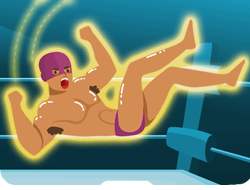
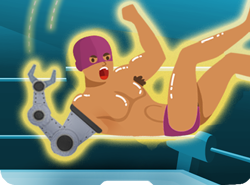
new signature move: Burning Hammer

diff --git a/src/main/java/thewrestler/signaturemoves/cards/attack/BurningHammer.java b/src/main/java/thewrestler/signaturemoves/cards/attack/BurningHammer.java
@@ -3,6 +3,8 @@ package thewrestler.signaturemoves.cards.attack;
 import com.badlogic.gdx.graphics.Color;
 import com.megacrit.cardcrawl.actions.AbstractGameAction;
 import com.megacrit.cardcrawl.actions.animations.VFXAction;
+import com.megacrit.cardcrawl.actions.common.ApplyPowerAction;
+import com.megacrit.cardcrawl.actions.common.DamageAction;
 import com.megacrit.cardcrawl.actions.common.GainBlockAction;
 import com.megacrit.cardcrawl.actions.common.RemoveAllBlockAction;
 import com.megacrit.cardcrawl.actions.utility.WaitAction;
@@ -14,12 +16,16 @@ import com.megacrit.cardcrawl.core.Settings;
 import com.megacrit.cardcrawl.dungeons.AbstractDungeon;
 import com.megacrit.cardcrawl.localization.CardStrings;
 import com.megacrit.cardcrawl.monsters.AbstractMonster;
+import com.megacrit.cardcrawl.powers.EnergizedPower;
 import com.megacrit.cardcrawl.ui.panels.EnergyPanel;
 import com.megacrit.cardcrawl.vfx.WallopEffect;
 import com.megacrit.cardcrawl.vfx.combat.FlashAtkImgEffect;
 import com.megacrit.cardcrawl.vfx.combat.WeightyImpactEffect;
+import com.sun.org.apache.bcel.internal.generic.DADD;
 import thewrestler.cards.colorless.status.penalty.BluePenaltyStatusCard;
+import thewrestler.cards.colorless.status.penalty.OrangePenaltyStatusCard;
 import thewrestler.cards.colorless.status.penalty.RedPenaltyStatusCard;
+import thewrestler.powers.trademarkmoves.FlamesOfTheHammerPower;
 import thewrestler.signaturemoves.cards.AbstractSignatureMoveCard;
 import thewrestler.signaturemoves.upgrades.AbstractSignatureMoveUpgrade;
 import thewrestler.signaturemoves.upgrades.UpgradeGroup;
@@ -28,12 +34,12 @@ import java.util.ArrayList;
 import java.util.List;
 import java.util.Set;
 
-public class Piledriver extends AbstractSignatureMoveCard {
-  public static final String ID = "WrestlerMod:Piledriver";
+public class BurningHammer extends AbstractSignatureMoveCard {
+  public static final String ID = "WrestlerMod:BurningHammer";
   public static final String NAME;
   public static final String DESCRIPTION;
   public static final String[] EXTENDED_DESCRIPTION;
-  public static final String IMG_PATH = "piledriver.png";
+  public static final String IMG_PATH = "burninghammer.png";
 
   private static final CardStrings cardStrings;
 
@@ -41,65 +47,28 @@ public class Piledriver extends AbstractSignatureMoveCard {
   private static final CardTarget TARGET = CardTarget.ENEMY;
 
   private static final int COST = 1;
-  private static final boolean HAS_EXHAUST = false;
+  private static final int DAMAGE = 9;
+  private static final int FLAMES_AMOUNT = 4;
+  private static final boolean HAS_EXHAUST = true;
   private static final boolean HAS_RETAIN = false;
 
-  public Piledriver() {
+  public BurningHammer() {
     super(ID, NAME, IMG_PATH, COST, getDescription(), TYPE, TARGET, HAS_EXHAUST, HAS_RETAIN,
-        BluePenaltyStatusCard.class, RedPenaltyStatusCard.class);
+        OrangePenaltyStatusCard.class, RedPenaltyStatusCard.class);
+    this.baseDamage = this.damage = DAMAGE;
+    this.baseMagicNumber = this.magicNumber = FLAMES_AMOUNT;
   }
 
   @Override
   public void use(AbstractPlayer p, AbstractMonster m) {
-    AbstractDungeon.actionManager.addToTop(
-        new VFXAction(new WeightyImpactEffect(m.hb.cX, m.hb.cY,Color.BLUE.cpy()), Settings.ACTION_DUR_XFAST));
+    AbstractDungeon.actionManager.addToBottom(
+        new DamageAction(m, new DamageInfo(p, damage, damageTypeForTurn),
+            AbstractGameAction.AttackEffect.BLUNT_HEAVY));
 
-    AbstractDungeon.actionManager.addToTop(
-        new VFXAction(new WeightyImpactEffect(m.hb.cX, m.hb.cY,Color.RED.cpy()), Settings.ACTION_DUR_XFAST));
+    CardCrawlGame.sound.play("FORGE_HAMMER_1");
 
-    AbstractDungeon.actionManager.addToBottom(new PiledriverAction(m, true));
-    AbstractDungeon.actionManager.addToBottom(new PiledriverAction(m, false));
-  }
-
-  private static class PiledriverAction extends AbstractGameAction {
-    final private boolean isHeavy;
-
-    public PiledriverAction(AbstractCreature target, boolean isHeavy) {
-      setValues(target, AbstractDungeon.player);
-      this.actionType = AbstractGameAction.ActionType.DAMAGE;
-      this.startDuration = isHeavy ? Settings.ACTION_DUR_MED : 0.0f;
-      this.duration = this.startDuration;
-      this.isHeavy = isHeavy;
-    }
-
-    public void update() {
-      if (shouldCancelAction()) {
-        this.isDone = true;
-        return;
-      }
-
-      tickDuration();
-
-      if (this.isDone) {
-        final int handSize = AbstractDungeon.player.hand.size();
-        final DamageInfo info = new DamageInfo(AbstractDungeon.player, handSize, DamageInfo.DamageType.NORMAL);
-        AbstractDungeon.effectList.add(new FlashAtkImgEffect(this.target.hb.cX, this.target.hb.cY,
-            isHeavy ? AbstractGameAction.AttackEffect.BLUNT_HEAVY : AttackEffect.BLUNT_LIGHT, false));
-
-        this.target.damage(info);
-        if (this.target.lastDamageTaken > 0) {
-          AbstractDungeon.actionManager.addToTop(new GainBlockAction(this.source, this.target.lastDamageTaken));
-          if (this.target.hb != null) {
-            AbstractDungeon.actionManager.addToTop(new VFXAction(new WallopEffect(this.target.lastDamageTaken, this.target.hb.cX, this.target.hb.cY)));
-          }
-        }
-        if (AbstractDungeon.getCurrRoom().monsters.areMonstersBasicallyDead()) {
-          AbstractDungeon.actionManager.clearPostCombatActions();
-        } else {
-          addToTop(new WaitAction(0.1F));
-        }
-      }
-    }
+    AbstractDungeon.actionManager.addToBottom(
+        new ApplyPowerAction(m, p, new FlamesOfTheHammerPower(m, p, this.magicNumber), this.magicNumber));
   }
 
   @Override
@@ -108,7 +77,7 @@ public class Piledriver extends AbstractSignatureMoveCard {
 
   @Override
   public AbstractSignatureMoveCard makeCopy() {
-    return new Piledriver();
+    return new BurningHammer();
   }
 
   @Override

diff --git a/src/main/java/thewrestler/powers/trademarkmoves/FlamesOfTheHammerPower.java b/src/main/java/thewrestler/powers/trademarkmoves/FlamesOfTheHammerPower.java
@@ -1,0 +1,61 @@
+package thewrestler.powers.trademarkmoves;
+
+import basemod.interfaces.CloneablePowerInterface;
+import com.megacrit.cardcrawl.actions.AbstractGameAction;
+import com.megacrit.cardcrawl.actions.common.DamageAction;
+import com.megacrit.cardcrawl.actions.common.MakeTempCardInHandAction;
+import com.megacrit.cardcrawl.actions.common.RemoveSpecificPowerAction;
+import com.megacrit.cardcrawl.cards.AbstractCard;
+import com.megacrit.cardcrawl.cards.DamageInfo;
+import com.megacrit.cardcrawl.core.AbstractCreature;
+import com.megacrit.cardcrawl.core.CardCrawlGame;
+import com.megacrit.cardcrawl.dungeons.AbstractDungeon;
+import com.megacrit.cardcrawl.localization.PowerStrings;
+import com.megacrit.cardcrawl.monsters.AbstractMonster;
+import com.megacrit.cardcrawl.powers.AbstractPower;
+import thewrestler.WrestlerMod;
+import thewrestler.powers.AbstractWrestlerPower;
+import thewrestler.signaturemoves.cards.attack.BurningHammer;
+
+public class FlamesOfTheHammerPower extends AbstractWrestlerPower implements CloneablePowerInterface {
+  public static final String POWER_ID = WrestlerMod.makeID("FlamesOfTheHammerPower");
+  public static final String IMG = "hammerflame.png";
+  private static final PowerStrings powerStrings = CardCrawlGame.languagePack.getPowerStrings(POWER_ID);
+  public static final String NAME = powerStrings.NAME;
+  public static final String[] DESCRIPTIONS = powerStrings.DESCRIPTIONS;
+
+  public static final PowerType POWER_TYPE = PowerType.DEBUFF;
+
+  public FlamesOfTheHammerPower(AbstractCreature owner, AbstractCreature source, int amount) {
+    super(POWER_ID, NAME, IMG, owner, source, amount, POWER_TYPE);
+  }
+
+  @Override
+  public void updateDescription() {
+    this.description = DESCRIPTIONS[0] + this.amount + DESCRIPTIONS[1];
+  }
+
+  @Override
+  public void onPlayCard(AbstractCard card, AbstractMonster monster) {
+    if (monster == this.owner && monster.hasPower(FlamesOfTheHammerPower.POWER_ID) && card.type == AbstractCard.CardType.ATTACK) {
+      CardCrawlGame.sound.play("FORGE_HAMMER_1");
+      flash();
+      AbstractDungeon.actionManager.addToTop(new MakeTempCardInHandAction(new BurningHammer()));
+      AbstractDungeon.actionManager.addToTop(new RemoveSpecificPowerAction(this.owner, this.source, this));
+    }
+  }
+
+  @Override
+  public void atEndOfTurn(boolean isPlayer) {
+    this.flash();
+    CardCrawlGame.sound.play("ATTACK_FIRE");
+    AbstractDungeon.actionManager.addToBottom(
+        new DamageAction(this.owner, new DamageInfo(this.source, this.amount, DamageInfo.DamageType.THORNS),
+            AbstractGameAction.AttackEffect.FIRE, false));
+  }
+
+  @Override
+  public AbstractPower makeCopy() {
+    return new FlamesOfTheHammerPower(owner, source, amount);
+  }
+}

diff --git a/src/main/java/thewrestler/WrestlerMod.java b/src/main/java/thewrestler/WrestlerMod.java
@@ -52,12 +52,14 @@ import thewrestler.relics.*;
 import thewrestler.rewards.TrademarkMoveReward;
 import thewrestler.screens.trademarkmove.TrademarkMoveSelectScreen;
 import thewrestler.screens.trademarkmove.patches.TintCardPatch;
+import thewrestler.signaturemoves.cards.attack.BurningHammer;
 import thewrestler.signaturemoves.cards.attack.Suplex;
 import thewrestler.signaturemoves.cards.old.Chokeslam;
 import thewrestler.signaturemoves.cards.old.DragonGate;
 import thewrestler.signaturemoves.cards.attack.Piledriver;
 import thewrestler.signaturemoves.cards.skill.ChopBlock;
 import thewrestler.signaturemoves.cards.skill.DoomsdayDevice;
+import thewrestler.signaturemoves.cards.skill.ElbowSmash;
 import thewrestler.signaturemoves.cards.skill.WindUp;
 import thewrestler.signaturemoves.moveinfos.AbstractSignatureMoveInfo;
 import thewrestler.ui.WrestlerCombatInfoPanel;
@@ -327,6 +329,7 @@ public class WrestlerMod implements
         reflectedMap.put("DOOR_HATCH_OPEN_1", new Sfx(getAudioResourcePath("TheWrestler_DoorHatchOpen1.ogg")));
         reflectedMap.put("DRILL_SPIN_1", new Sfx(getAudioResourcePath("TheWrestler_DrillSpin1.ogg")));
         reflectedMap.put("ELECTRO_INTERFERENCE_1", new Sfx(getAudioResourcePath("TheWrestler_ElectroInterference1.ogg")));
+        reflectedMap.put("FORGE_HAMMER_1", new Sfx(getAudioResourcePath("TheWrestler_ForgeHammer1.ogg")));
         reflectedMap.put("GATE_OPEN_RUSTY_1", new Sfx(getAudioResourcePath("TheWrestler_GateRustyOpen1.ogg")));
         reflectedMap.put("GONG_STRIKE_1", new Sfx(getAudioResourcePath("TheWrestler_GongStrike1.ogg")));
         reflectedMap.put("GONG_STRIKE_2", new Sfx(getAudioResourcePath("TheWrestler_GongStrike2.ogg")));
@@ -713,6 +716,8 @@ public class WrestlerMod implements
         UnlockTracker.unlockCard(Chokeslam.ID);
         BaseMod.addCard(new DragonGate());
         UnlockTracker.unlockCard(DragonGate.ID);
+        BaseMod.addCard(new ElbowSmash());
+        UnlockTracker.unlockCard(ElbowSmash.ID);
         BaseMod.addCard(new Piledriver());
         UnlockTracker.unlockCard(Piledriver.ID);
         BaseMod.addCard(new FairPlay());
@@ -722,6 +727,8 @@ public class WrestlerMod implements
         BaseMod.addCard(new DebugTrademarkMoveScreen());
         UnlockTracker.unlockCard(DebugTrademarkMoveScreen.ID);
 
+        BaseMod.addCard(new BurningHammer());
+        UnlockTracker.unlockCard(BurningHammer.ID);
         BaseMod.addCard(new ChopBlock());
         UnlockTracker.unlockCard(ChopBlock.ID);
         BaseMod.addCard(new DoomsdayDevice());

diff --git a/src/main/java/thewrestler/signaturemoves/cards/skill/ElbowSmash.java b/src/main/java/thewrestler/signaturemoves/cards/skill/ElbowSmash.java
@@ -65,12 +65,11 @@ public class ElbowSmash extends AbstractSignatureMoveCard {
     @Override
     public void update() {
       if (this.duration <= DURATION) {
-        CardCrawlGame.sound.play("SPRINGBOARD_1");
+        CardCrawlGame.sound.play("ORB_SLOT_GAIN");
         if (!this.player.hand.isEmpty()) {
           final int numCards = AbstractDungeon.player.hand.size();
           AbstractDungeon.actionManager.addToTop(new MakeTempCardInHandAction(new Elbow(), numCards));
           AbstractDungeon.actionManager.addToTop(new DiscardAction(this.player, this.player, numCards, true));
-
         }
         this.isDone = true;
         return;

diff --git a/src/main/java/thewrestler/signaturemoves/cards/attack/Suplex.java b/src/main/java/thewrestler/signaturemoves/cards/attack/Suplex.java
@@ -14,7 +14,6 @@ import com.megacrit.cardcrawl.localization.CardStrings;
 import com.megacrit.cardcrawl.monsters.AbstractMonster;
 import com.megacrit.cardcrawl.vfx.BorderFlashEffect;
 import com.megacrit.cardcrawl.vfx.combat.RoomTintEffect;
-import thewrestler.cards.colorless.status.penalty.BluePenaltyStatusCard;
 import thewrestler.cards.colorless.status.penalty.RedPenaltyStatusCard;
 import thewrestler.cards.colorless.status.penalty.YellowPenaltyStatusCard;
 import thewrestler.signaturemoves.cards.AbstractSignatureMoveCard;
